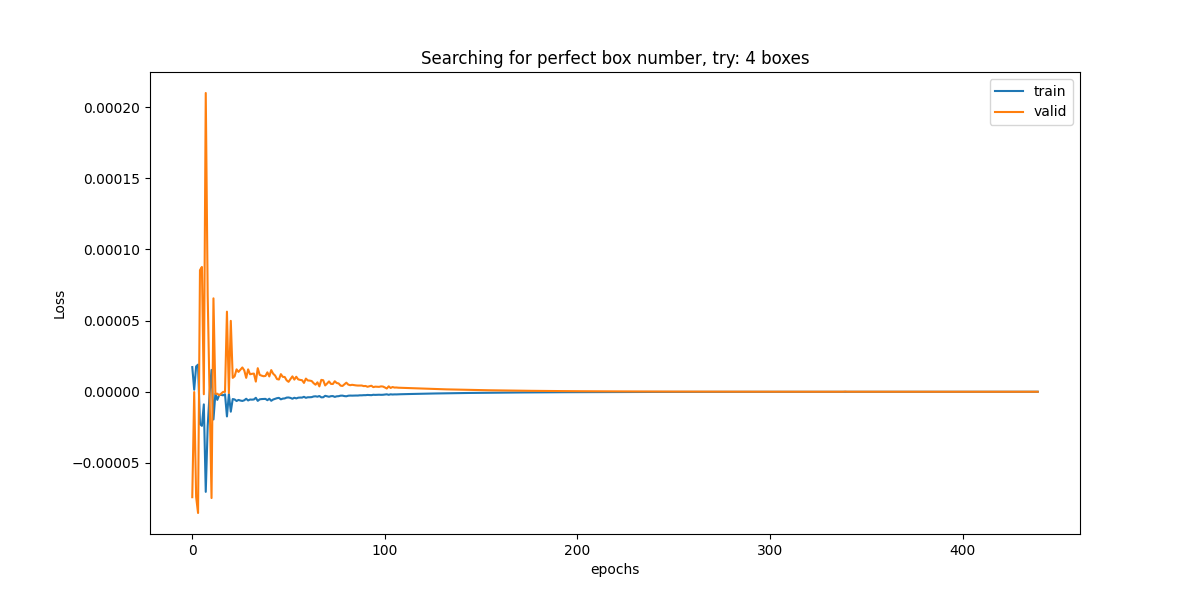
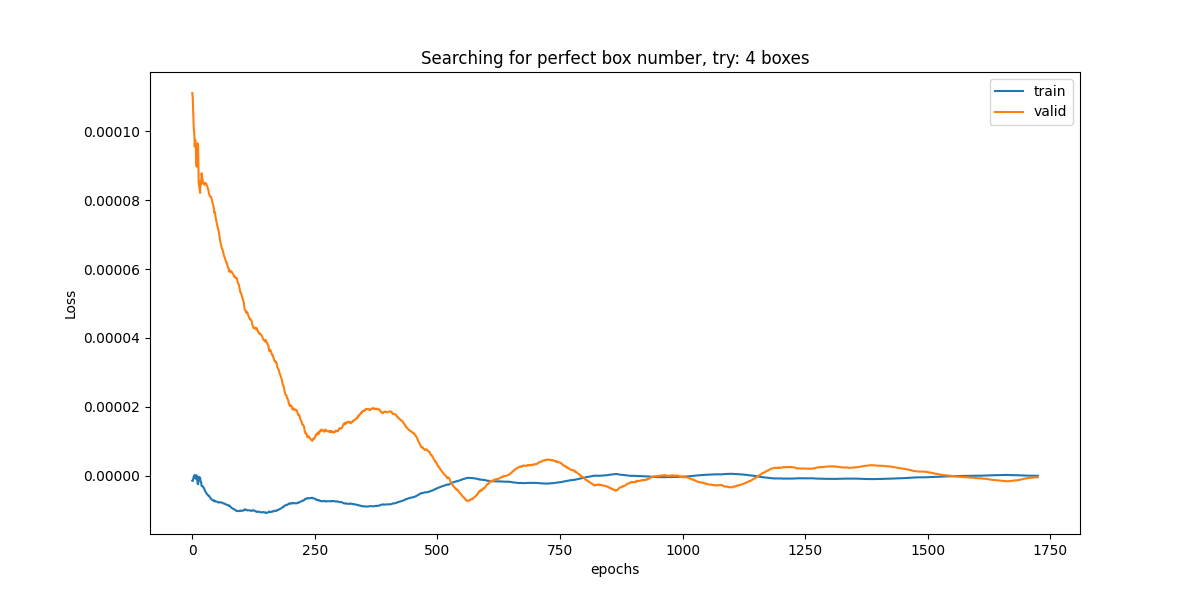
updated

diff --git a/src/mice/main/box_menu.py b/src/mice/main/box_menu.py
@@ -85,15 +85,20 @@ def box_runner(num_boxes, box_frac, idx, max_epochs, batch_size, freq_print, gen
         valid_loss, valid_mutual = mice.valid_one_epoch(window_size=window_size, epoch=epoch, valid_losses=valid_losses, model=model, data_loader=loader)
         valid_losses.append(valid_mutual.cpu().detach().numpy())
 
-        lr_scheduler(valid_losses[-1])
-        if epoch > 300:
-            early_stopping(valid_losses[-1])
+        train_losses_exp = list(mice.exp_ave(data=train_losses))
+        valid_losses_exp = list(mice.exp_ave(data=valid_losses))
+
+        if epoch > 500:
+            lr_scheduler(valid_losses_exp[-1])
+            early_stopping(valid_losses_exp[-1])
             if early_stopping.early_stop:
                 break
         cntr += 1
         if epoch % freq_print == 0:
-            print(f'\nMI for train {train_losses[-1]}, val {valid_losses[-1]} at step {epoch}')
+            print(f'\nMI for train {train_losses_exp[-1]}, val {valid_losses_exp[-1]} at step {epoch}')
         
+    train_losses = mice.exp_ave(data=train_losses)
+    valid_losses = mice.exp_ave(data=valid_losses)
     torch.save(model.state_dict(), PATH)
     mice.logger(f'MI train for num boxes, num_boxes = {num_boxes} is: {train_losses[-1]:.2f}', flag_message=0)
     mice.box_fig(num=0, genom=genom, num_boxes=num_boxes, train_losses=train_losses, valid_losses=valid_losses)
@@ -104,7 +109,9 @@ def box_runner(num_boxes, box_frac, idx, max_epochs, batch_size, freq_print, gen
 
 def box_caller():
     # box_sizes = [4, 6, 10, 14, 18]
-    box_sizes = [4, 6, 18, 25]
+    # box_sizes = [4, 6, 18, 25]
+    box_sizes = list(np.linspace(4, 80, 77, dtype='int'))
+
     mi = np.zeros(len(box_sizes))
     for idx, num_boxes in enumerate(box_sizes):
         print(f'Running on number of boxes = {num_boxes}')
